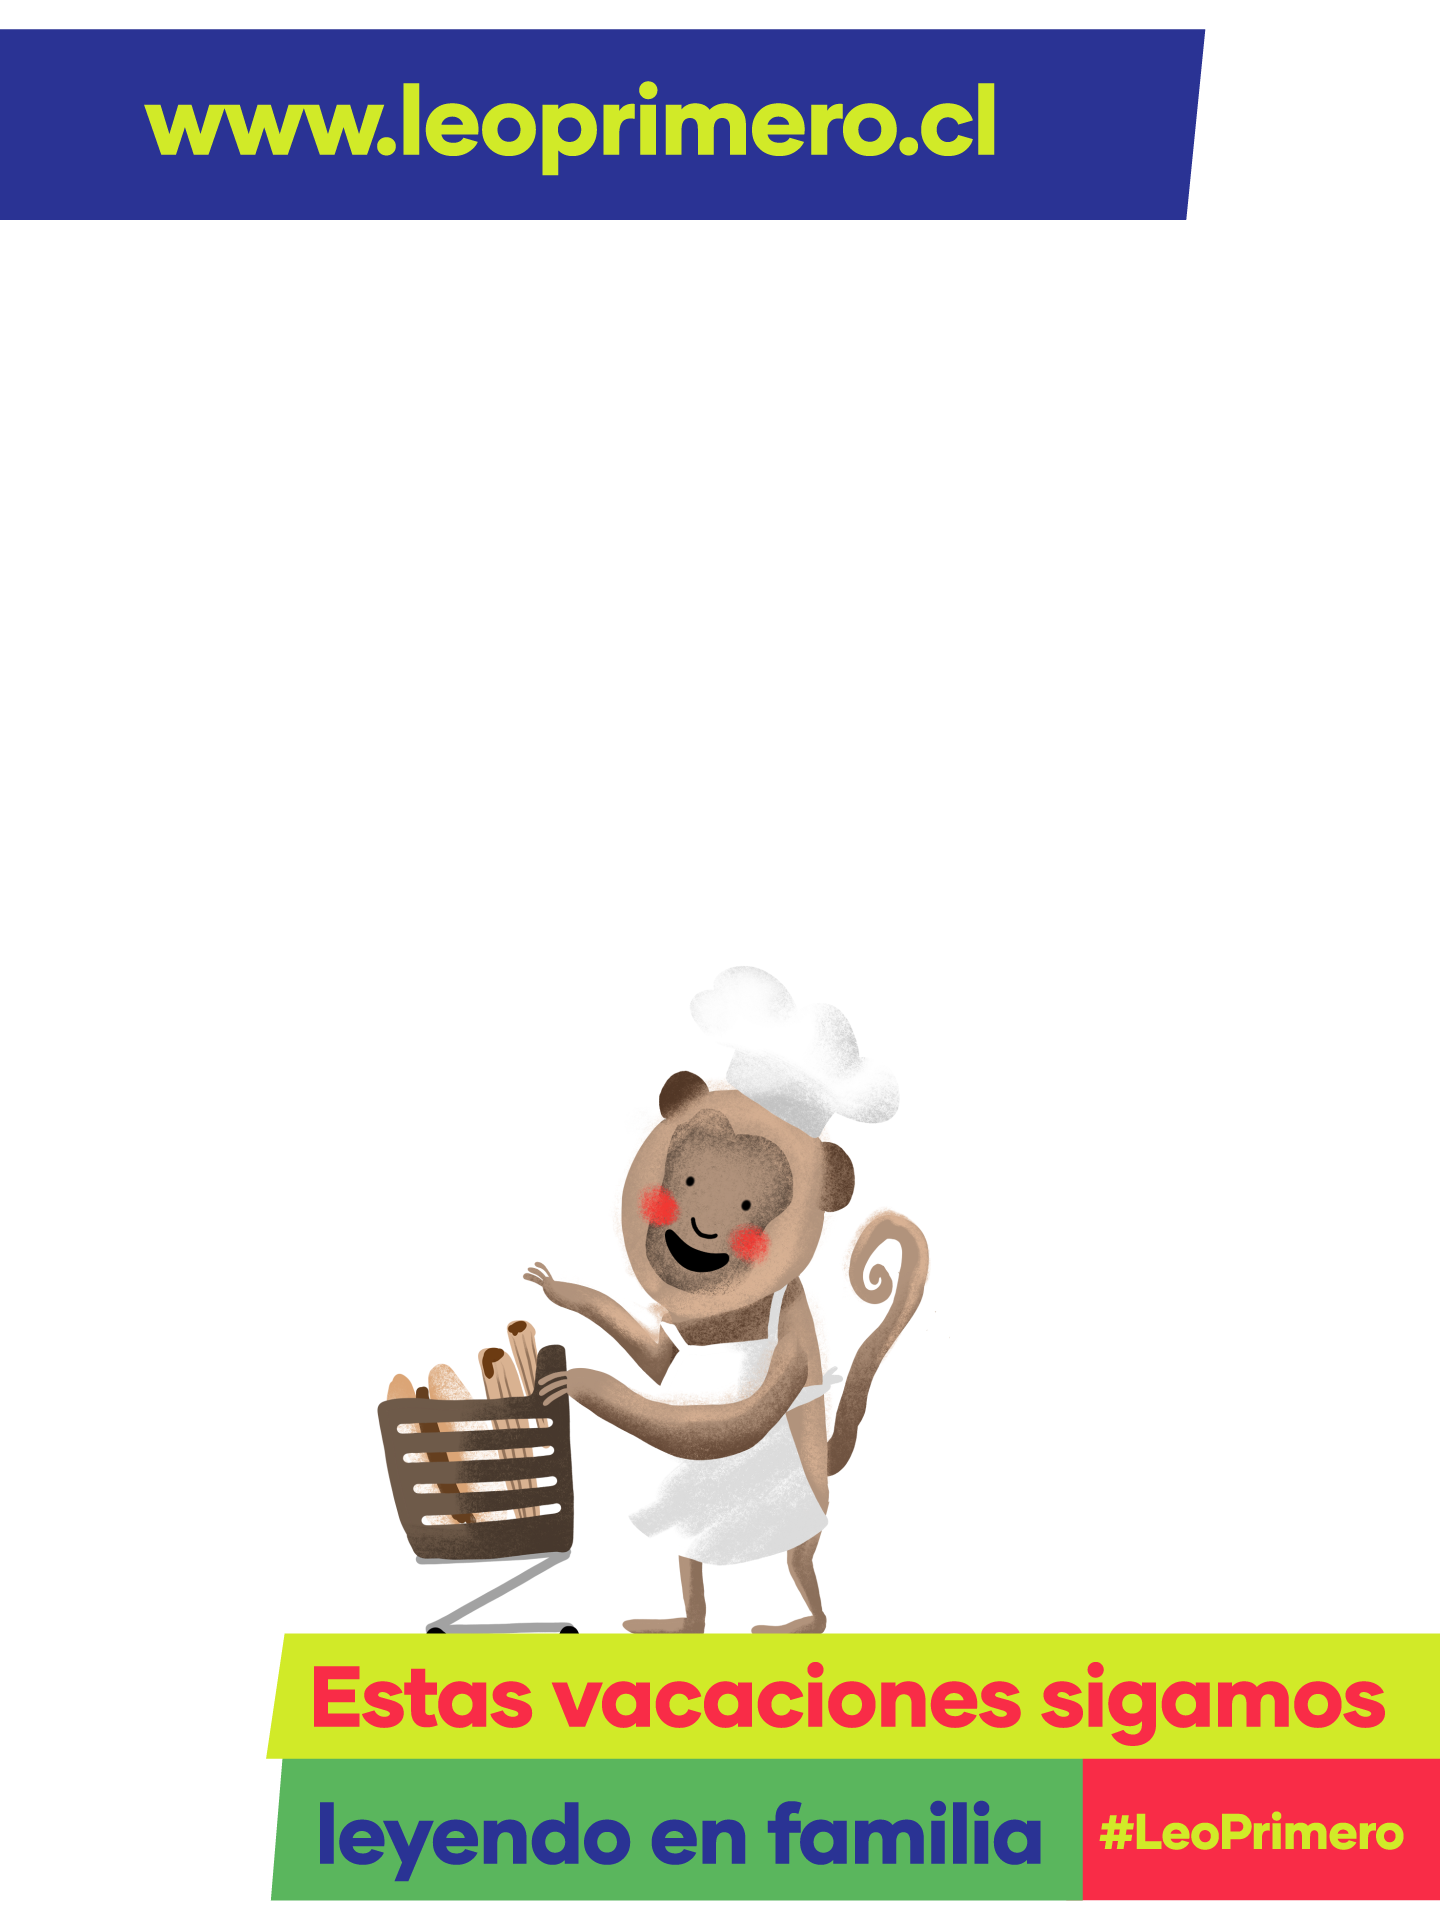
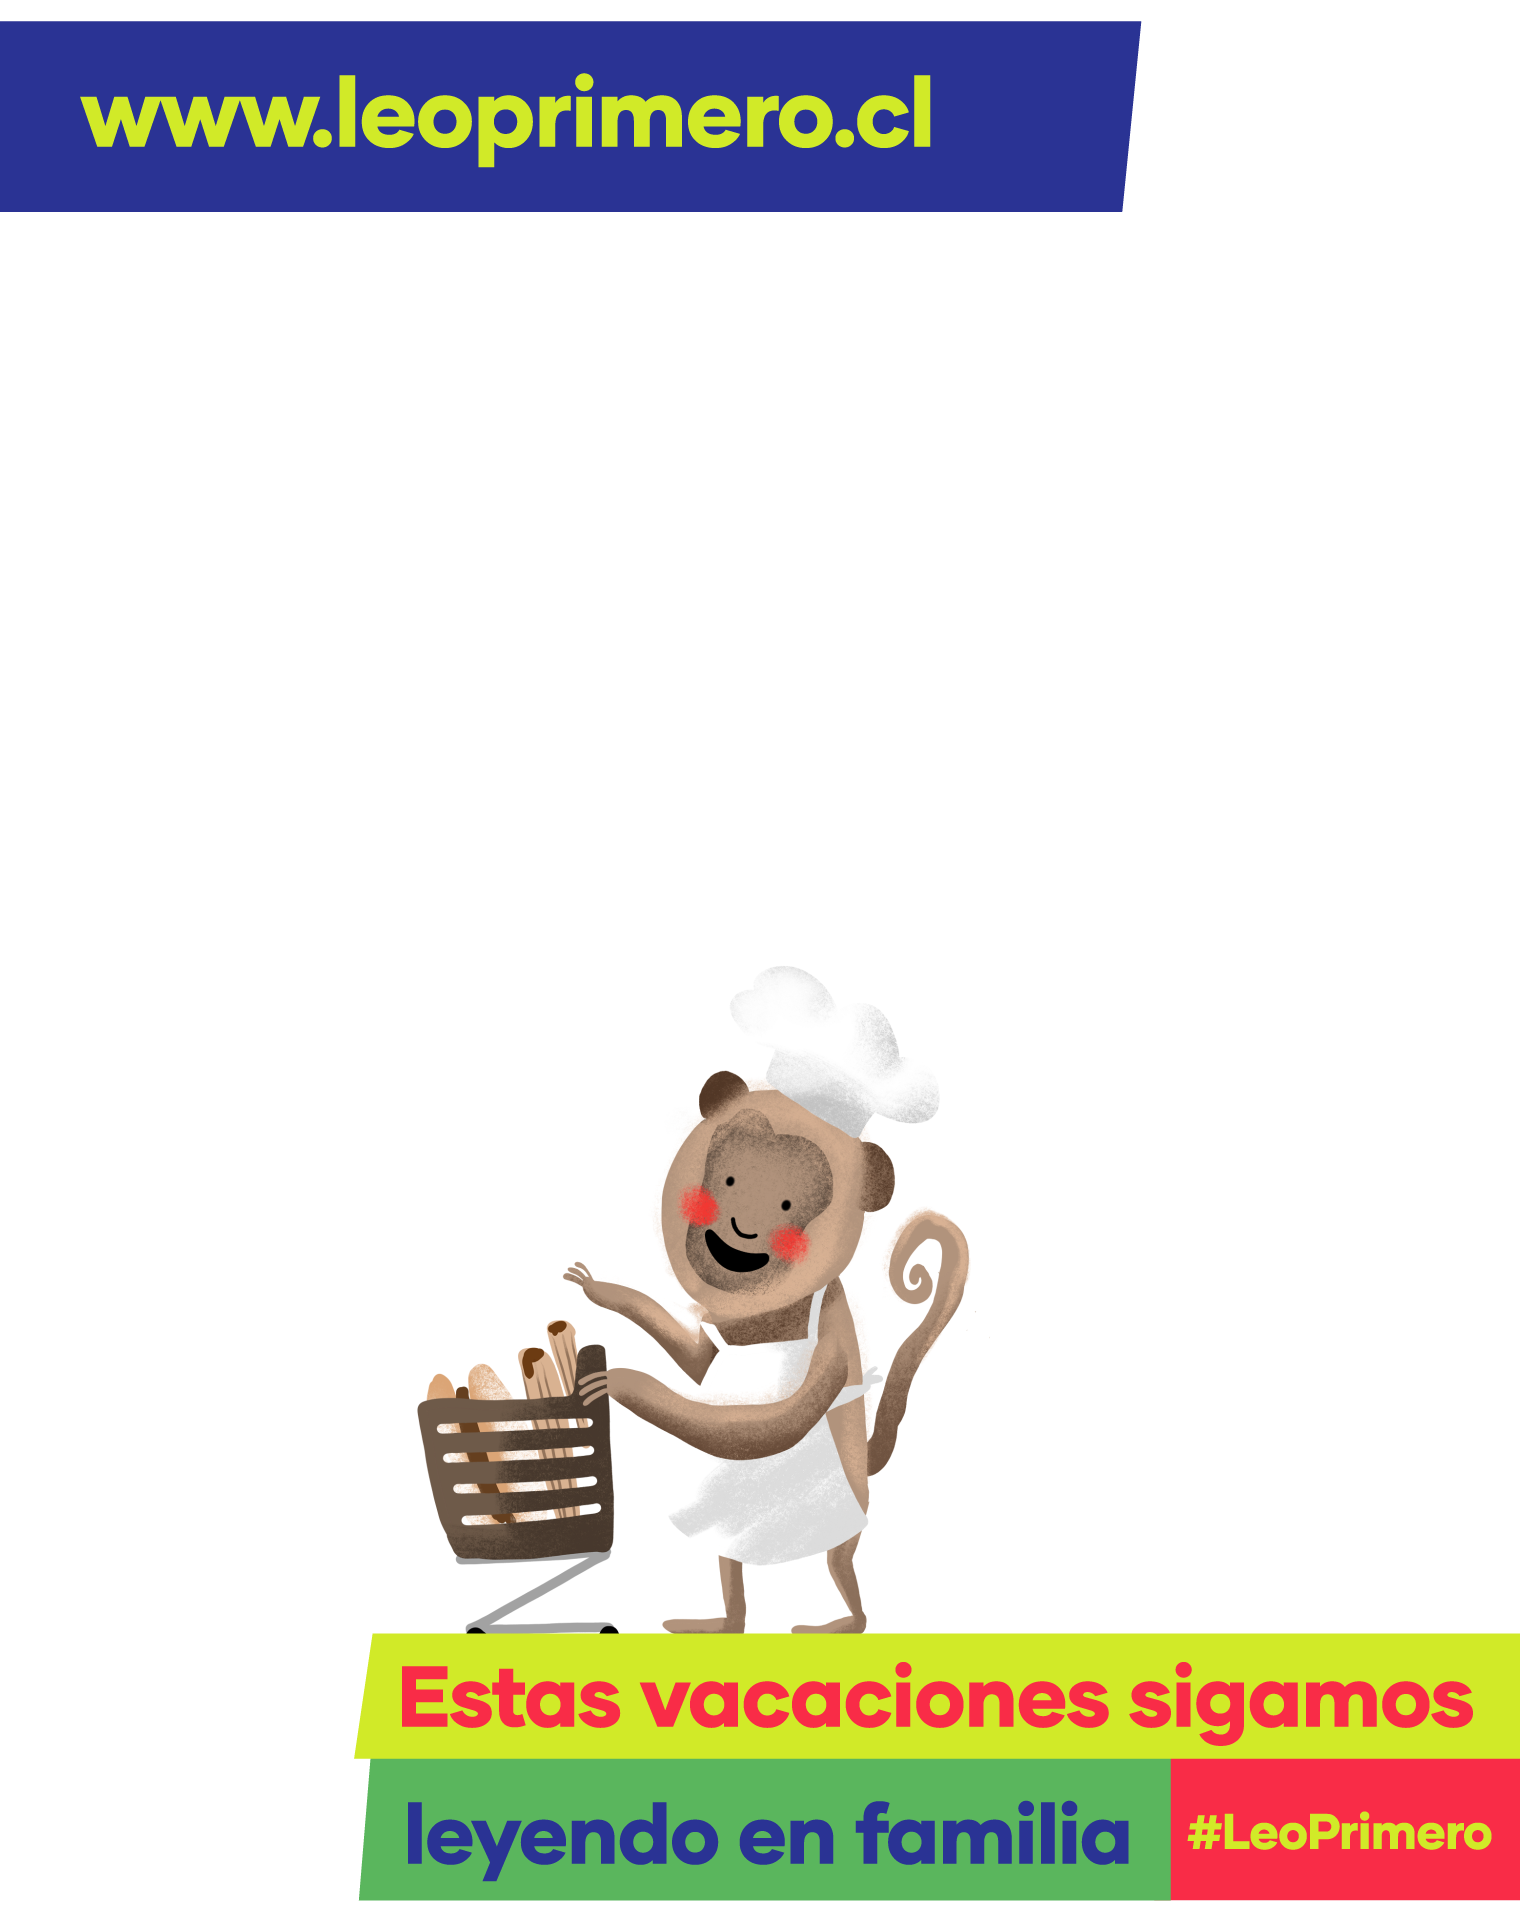
mobile/desktop

Changed region(s): [[0.1875, 0.5625, 1.0, 1.0], [0.0, 0.0, 0.8438, 0.125]]

diff --git a/docs/js/main.js b/docs/js/main.js
@@ -23,7 +23,7 @@ app.controller('homeCtrl', function($scope, $rootScope, $routeParams, $interval,
     // The width and height of the captured photo. We will set the
     // width to the value defined here, but the height will be
     // calculated based on the aspect ratio of the input stream.
-    var width = 320; // We will scale the photo width to this
+    var width = 0; // We will scale the photo width to this
     var height = 0; // This will be computed based on the input stream
 
     // |streaming| indicates whether or not we're currently streaming
@@ -80,8 +80,10 @@ app.controller('homeCtrl', function($scope, $rootScope, $routeParams, $interval,
 
         if ($rootScope.mobileCheck()) {
             console.log("[homeCtrl] Mobile");
+            width = 320;
         } else {
             console.log("[homeCtrl] Desktop");
+            width = 720;
         }
 
         
@@ -220,17 +222,23 @@ app.run(function($rootScope) {
     $rootScope.photoList = [
         {
             "id" : "001",
-            "path" : "images/001 Cuento - Mono photo web 20.png"
+            "mobile" : "images/001 Cuento - Mono photo web 20.png",
+            "desktop" : "images/001 Cuento - Mono photo web 30.png"
         },
         {
             "id" : "002",
-            "path" : "images/002 Cuento - Pulpo photo web0.png"
+            "mobile" : "images/002 Cuento - Pulpo photo web0.png",
+            "desktop" : "images/002 Cuento - Pulpo photo web0.png"
         }
     ];
 
     $rootScope.getImagePath = function(id) {
         var photo = $rootScope.photoList.find(element => element.id.localeCompare(id) == 0);
-        return photo.path;
+        if ($rootScope.mobileCheck()) {
+            return photo.mobile;
+        } else {
+            return photo.desktop;
+        }
     }
 
     $rootScope.mobileCheck = function() {
